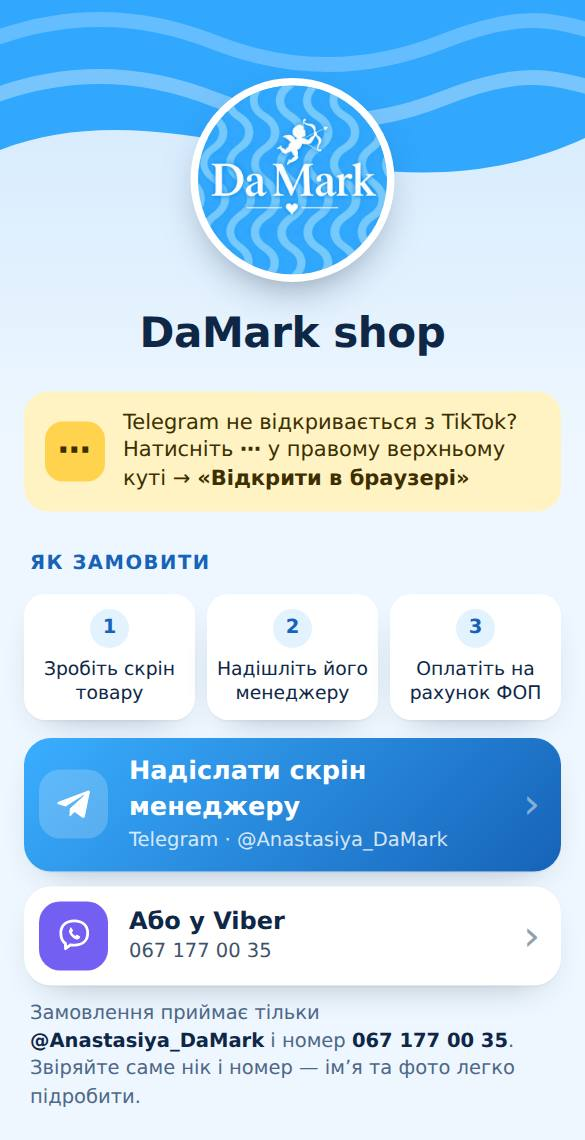
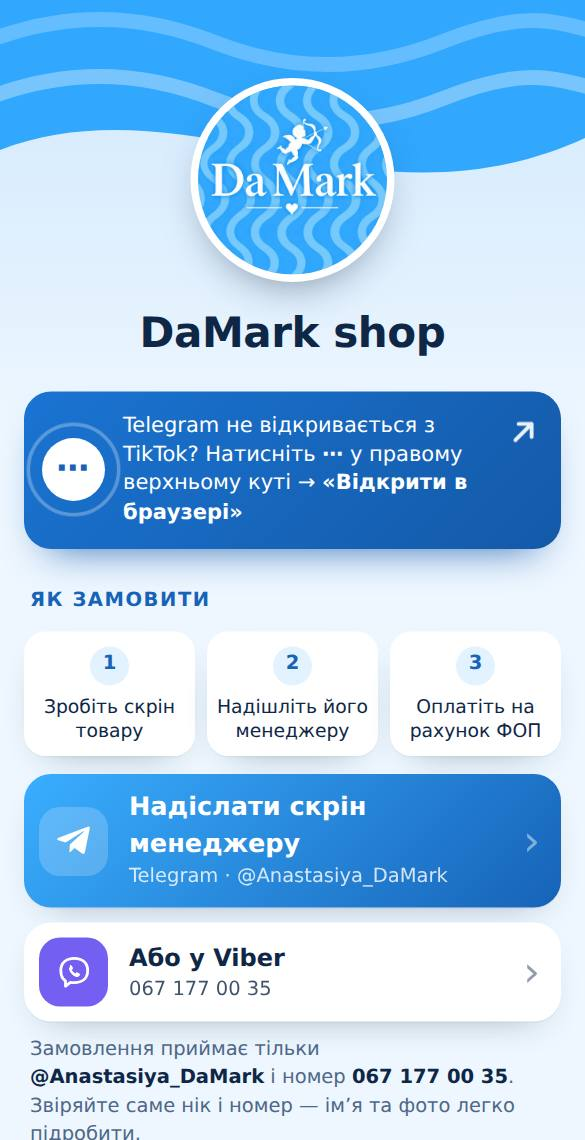
The browser hint in the page's own blue
Anna chose the blue page, and found the yellow hint looked like an error
message. It is now a filled blue card in the logo's colours with white
text, a slowly pulsing ring around the ⋯ and an arrow to the corner, so it
still draws the eye. The explanation shown inside TikTok takes the same
blues from the page; the other variants keep their own.

Claude-Session: https://claude.ai/code/session_01LwPa18dTftULn3uUZag179

diff --git a/link/index.html b/link/index.html
@@ -73,14 +73,30 @@
   }
   .name { margin: 14px 0 0; font-size: 28px; font-weight: 800; letter-spacing: -.01em; }
 
+  /* "Open in a browser" hint: in the page's own blues, but filled and moving
+     a little, so it is the first thing read under the logo. */
   .help {
-    display: flex; gap: 12px; align-items: center; width: 100%; margin: 18px 0 0; padding: 12px 14px;
-    border: 0; border-radius: 16px; background: #fff3c4; color: #3d2f00;
-    font: inherit; font-size: 14px; line-height: 1.35; text-align: left;
+    display: flex; gap: 12px; align-items: center; width: 100%; margin: 18px 0 0; padding: 14px 12px;
+    border: 0; border-radius: 18px; background: linear-gradient(135deg, #1a74d2 0%, #1459a8 100%); color: #fff;
+    font: inherit; font-size: 14px; line-height: 1.38; text-align: left;
+    box-shadow: 0 14px 28px -16px rgba(20, 89, 168, .95);
   }
-  .help b { font-weight: 700; }
-  .help-ico { flex: none; display: grid; place-items: center; width: 40px; height: 40px; border-radius: 12px; background: #ffd34d; font-size: 22px; font-weight: 800; letter-spacing: 1px; }
-  .in-app .help { box-shadow: 0 0 0 3px #ffd34d; cursor: pointer; }
+  .help b { font-weight: 800; }
+  .help-ico {
+    position: relative; flex: none; display: grid; place-items: center; width: 42px; height: 42px;
+    border-radius: 50%; background: #fff; color: var(--deep); font-size: 22px; font-weight: 800; letter-spacing: 1px;
+  }
+  .help-ico::after {
+    content: ""; position: absolute; inset: -5px; border-radius: 50%; border: 2px solid rgba(255, 255, 255, .8);
+    animation: ring 1.8s ease-out infinite;
+  }
+  @keyframes ring { from { transform: scale(.85); opacity: 1; } to { transform: scale(1.4); opacity: 0; } }
+  .help-to { flex: none; width: 26px; height: 26px; align-self: flex-start; opacity: .9; }
+  @media (prefers-reduced-motion: reduce) { .help-ico::after { animation: none; opacity: .45; } }
+  .in-app .help { box-shadow: 0 0 0 3px #9fd6ff, 0 14px 28px -16px rgba(20, 89, 168, .95); cursor: pointer; }
+
+  /* The explanation shown inside TikTok (common.js) in the same blues. */
+  :root { --dm-accent: #7fcbff; --dm-main: #1459a8; }
 
   section { margin-top: 26px; }
   .label { margin: 0 0 10px 4px; font-size: 13px; font-weight: 700; letter-spacing: .08em; text-transform: uppercase; color: var(--deep); }
@@ -147,6 +163,7 @@
   <button class="help" type="button" data-open-help>
     <span class="help-ico dots" aria-hidden="true">⋯</span>
     <span>Telegram не відкривається з TikTok? Натисніть <b class="dots">⋯</b> у правому верхньому куті → <b>«Відкрити в браузері»</b></span>
+    <svg class="help-to" viewBox="0 0 24 24" fill="none" stroke="currentColor" stroke-width="2.4" stroke-linecap="round" stroke-linejoin="round" aria-hidden="true"><path d="M7 17 17 7M9 7h8v8"/></svg>
   </button>
 
   <section aria-labelledby="order">

diff --git a/link/common.js b/link/common.js
@@ -25,7 +25,7 @@
     '.dm-toast{position:fixed;left:50%;bottom:calc(20px + env(safe-area-inset-bottom));z-index:60;transform:translateX(-50%);max-width:calc(100% - 32px);padding:10px 16px;border-radius:12px;background:#1d1b22;color:#fff;font-family:inherit;font-size:14px;font-weight:600;line-height:1.3;box-shadow:0 10px 30px -12px rgba(0,0,0,.5)}',
     '.dm-sheet{position:fixed;inset:0;z-index:50;display:flex;align-items:flex-end;justify-content:center;padding:96px 12px calc(12px + env(safe-area-inset-bottom));background:rgba(12,10,20,.8);-webkit-backdrop-filter:blur(3px);backdrop-filter:blur(3px);overflow-y:auto;font-family:inherit}',
     '.dm-sheet[hidden]{display:none}',
-    '.dm-arrow{position:fixed;top:4px;right:10px;width:92px;height:92px;color:#ffd34d;animation:dm-nudge 1.2s ease-in-out infinite}',
+    '.dm-arrow{position:fixed;top:4px;right:10px;width:92px;height:92px;color:var(--dm-accent,#ffd34d);animation:dm-nudge 1.2s ease-in-out infinite}',
     '@keyframes dm-nudge{0%,100%{transform:translate(0,0)}50%{transform:translate(4px,-6px)}}',
     '@media (prefers-reduced-motion:reduce){.dm-arrow{animation:none}}',
     '.dm-card{width:100%;max-width:440px;padding:22px 18px 14px;border-radius:22px;background:#fff;color:#1d1b22;text-align:left}',
@@ -34,10 +34,10 @@
     '.dm-card ol{margin:0 0 16px;padding:0;list-style:none;counter-reset:n}',
     '.dm-card li{counter-increment:n;display:flex;align-items:center;gap:12px;padding:10px 0;font-size:16px;border-top:1px solid #eee}',
     '.dm-card li:first-child{border-top:0}',
-    '.dm-card li::before{content:counter(n);flex:none;display:grid;place-items:center;width:30px;height:30px;border-radius:50%;background:#1d1b22;color:#fff;font-weight:700;font-size:15px}',
+    '.dm-card li::before{content:counter(n);flex:none;display:grid;place-items:center;width:30px;height:30px;border-radius:50%;background:var(--dm-main,#1d1b22);color:#fff;font-weight:700;font-size:15px}',
     '.dm-card .dm-dots{display:inline-grid;place-items:center;min-width:34px;height:26px;padding:0 6px;border-radius:8px;background:#f0eef4;font-weight:700;letter-spacing:1px}',
     '.dm-btn{display:flex;align-items:center;justify-content:center;width:100%;min-height:54px;margin-top:8px;border:0;border-radius:14px;background:#f0eef4;color:#1d1b22;font:inherit;font-weight:700;text-decoration:none;cursor:pointer}',
-    '.dm-btn.dm-main{background:#1d1b22;color:#fff}',
+    '.dm-btn.dm-main{background:var(--dm-main,#1d1b22);color:#fff}',
     '.dm-plain{display:block;width:100%;margin-top:6px;padding:12px;border:0;background:none;color:#5b5868;font:inherit;font-size:15px;text-align:center;text-decoration:underline;text-underline-offset:3px;cursor:pointer}',
     '.dm-ok{margin:8px 2px 0!important;color:#19734a!important;font-size:14px!important}',
   ].join('\n')

diff --git a/link/variants/index.html b/link/variants/index.html
@@ -69,7 +69,7 @@
 
   <div class="grid">
     <article class="card">
-      <a class="shot" href="../"><img src="previews/blue.jpg" alt="Варіант 1" loading="lazy"><span class="num">1</span><span class="now">Зараз на головному</span></a>
+      <a class="shot" href="../"><img src="previews/blue.jpg" alt="Варіант 1" loading="lazy"><span class="num">1</span><span class="now">Обрано · на головному</span></a>
       <div class="body">
         <h2>Блакитний</h2>
         <p>Логотип угорі, далі все по черзі картками: як замовити, контакти, реквізити, умови. У кольорах логотипу.</p>
